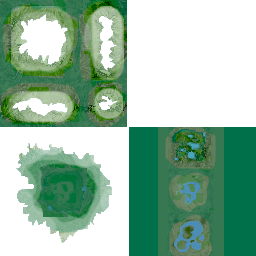
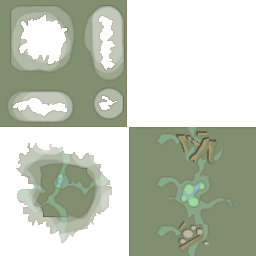
Various minor fixes and cosmetic updates.

diff --git a/src/stratos/user/GameOptionsPane.java b/src/stratos/user/GameOptionsPane.java
@@ -36,6 +36,7 @@ public class GameOptionsPane extends UIGroup implements UIConstants {
   final Scenario played;
   final Text text;
   final Bordering bordering;
+  final Scrollbar scrolling;
   
   
   private GameOptionsPane(BaseUI UI, Scenario played) {
@@ -54,6 +55,11 @@ public class GameOptionsPane extends UIGroup implements UIConstants {
     text.alignDown  (0, 1);
     text.attachTo   (this);
     bordering.surround(text);
+    
+    this.scrolling = text.makeScrollBar(SelectionPane.SCROLL_TEX);
+    scrolling.alignToMatch(text);
+    scrolling.alignRight(0 - SCROLLBAR_WIDE, SCROLLBAR_WIDE);
+    scrolling.attachTo(bordering.inside);
   }
   
   
@@ -68,11 +74,9 @@ public class GameOptionsPane extends UIGroup implements UIConstants {
       protected void whenClicked() {
         if (baseUI.currentInfoPane() == pane) {
           baseUI.clearInfoPane();
-          PlayLoop.setPaused(false);
         }
         else {
           baseUI.setInfoPane(pane);
-          PlayLoop.setPaused(true);
         }
       }
       

diff --git a/src/stratos/game/wild/Flora.java b/src/stratos/game/wild/Flora.java
@@ -166,8 +166,9 @@ public class Flora extends Element implements TileConstants {
       mark = var / TerrainGen.MARK_VARS;
     if (mark == 0) return 0;
     if (mark == 1) {
-      if (var % TerrainGen.MARK_VARS == 0) return 0.5f;
-      return 0;
+      float max = t.habitat().moisture() / 10f;
+      max *= var * 1f / TerrainGen.MARK_VARS;
+      return max;
     }
     float boost = var * 0.5f / TerrainGen.MARK_VARS;
     return t.habitat().moisture() * (MAX_GROWTH + boost) / 10f;
@@ -411,7 +412,8 @@ public class Flora extends Element implements TileConstants {
   
   public String fullName() {
     final String name = species.domesticated ? species.name : "Flora";
-    return TREE_STAGE_NAMES[growStage()]+name;
+    final int stage = Nums.clamp(growStage(), MAX_GROWTH);
+    return TREE_STAGE_NAMES[stage]+name;
   }
   
   
@@ -422,7 +424,6 @@ public class Flora extends Element implements TileConstants {
   
   
   public String helpInfo() {
-    //return "Habitat "+origin().habitat();
     return DEFAULT_INFO;
   }
 }

diff --git a/src/stratos/game/verse/Expedition.java b/src/stratos/game/verse/Expedition.java
@@ -84,8 +84,9 @@ public class Expedition implements Session.Saveable {
   
   public Expedition(Session s) throws Exception {
     s.cacheInstance(this);
-    origin      = (Sector) s.loadObject();
-    destination = (Sector) s.loadObject();
+    backing     = (Faction) s.loadObject();
+    origin      = (Sector ) s.loadObject();
+    destination = (Sector ) s.loadObject();
     funding    = s.loadInt();
     titleGranted = s.loadInt();
     tribute   = s.loadInt();
@@ -96,10 +97,11 @@ public class Expedition implements Session.Saveable {
   
   
   public void saveState(Session s) throws Exception {
+    s.saveObject (backing    );
     s.saveObject (origin     );
     s.saveObject (destination);
     s.saveInt    (funding    );
-    s.saveInt    (titleGranted );
+    s.saveInt    (titleGranted);
     s.saveInt    (tribute    );
     s.saveObject (leader     );
     s.saveObjects(advisors   );

diff --git a/src/stratos/user/RosterPane.java b/src/stratos/user/RosterPane.java
@@ -111,8 +111,8 @@ public class RosterPane extends SelectionPane {
       for (Actor a : listApplied(base)) {
         final FindWork findWork = (FindWork) a.matchFor(FindWork.class, false);
         VenuePane.descApplicant(a, findWork, detailText, UI);
-        d.append("\n  Applying at: ");
-        d.append(findWork.employer());
+        d.appendAll("\n  Applied as: ", findWork.position());
+        d.appendAll("\n  Applied at: ", findWork.employer());
         d.append("\n  ");
       }
     }

diff --git a/src/stratos/game/verse/SectorScenario.java b/src/stratos/game/verse/SectorScenario.java
@@ -163,7 +163,6 @@ public class SectorScenario extends Scenario {
     if (ruler != null) advisors.add(ruler);
     base.assignRuler(ruler);
     base.setup.doPlacementsFor(bastion);
-    base.setup.fillVacancies(bastion, true);
     if (! bastion.inWorld()) I.complain("BASTION COULD NOT ENTER WORLD!");
     //
     //  We clear away any structures that might have conflicted with the

diff --git a/src/stratos/content/civic/BotanicalStation.java b/src/stratos/content/civic/BotanicalStation.java
@@ -90,7 +90,7 @@ public class BotanicalStation extends HarvestVenue {
       10, ASSEMBLY, 5, FIELD_THEORY
     ),
     MOISTURE_FARMING = new Upgrade(
-      "Moisture",
+      "Moisture Farming",
       "Increases growth of all crops at the cost of "+WATER+" consumption, "+
       "especially in desert environments.",
       150, Upgrade.THREE_LEVELS, LEVELS[0], BLUEPRINT,

diff --git a/src/stratos/game/actors/HumanMind.java b/src/stratos/game/actors/HumanMind.java
@@ -180,7 +180,9 @@ public class HumanMind extends ActorMind {
   
   private void addConstantResponses(Choice choice) {
     final boolean report = I.talkAbout == actor && verbose;
-    if (report) I.say("\nGetting constant responses.");
+    if (report) {
+      I.say("\nGetting constant responses.");
+    }
     choice.isVerbose = report;
     
     //

diff --git a/src/stratos/game/maps/StageTerrain.java b/src/stratos/game/maps/StageTerrain.java
@@ -362,7 +362,7 @@ public class StageTerrain implements TileConstants, Session.Saveable {
         }
         protected int variantAt(int tx, int ty, TerrainSet terrain) {
           final int var = varsIndex[tx][ty];
-          return var <= 4 ? 0 : var;
+          return var <= 4 ? (var / 3) : var;
         }
       });
     }
